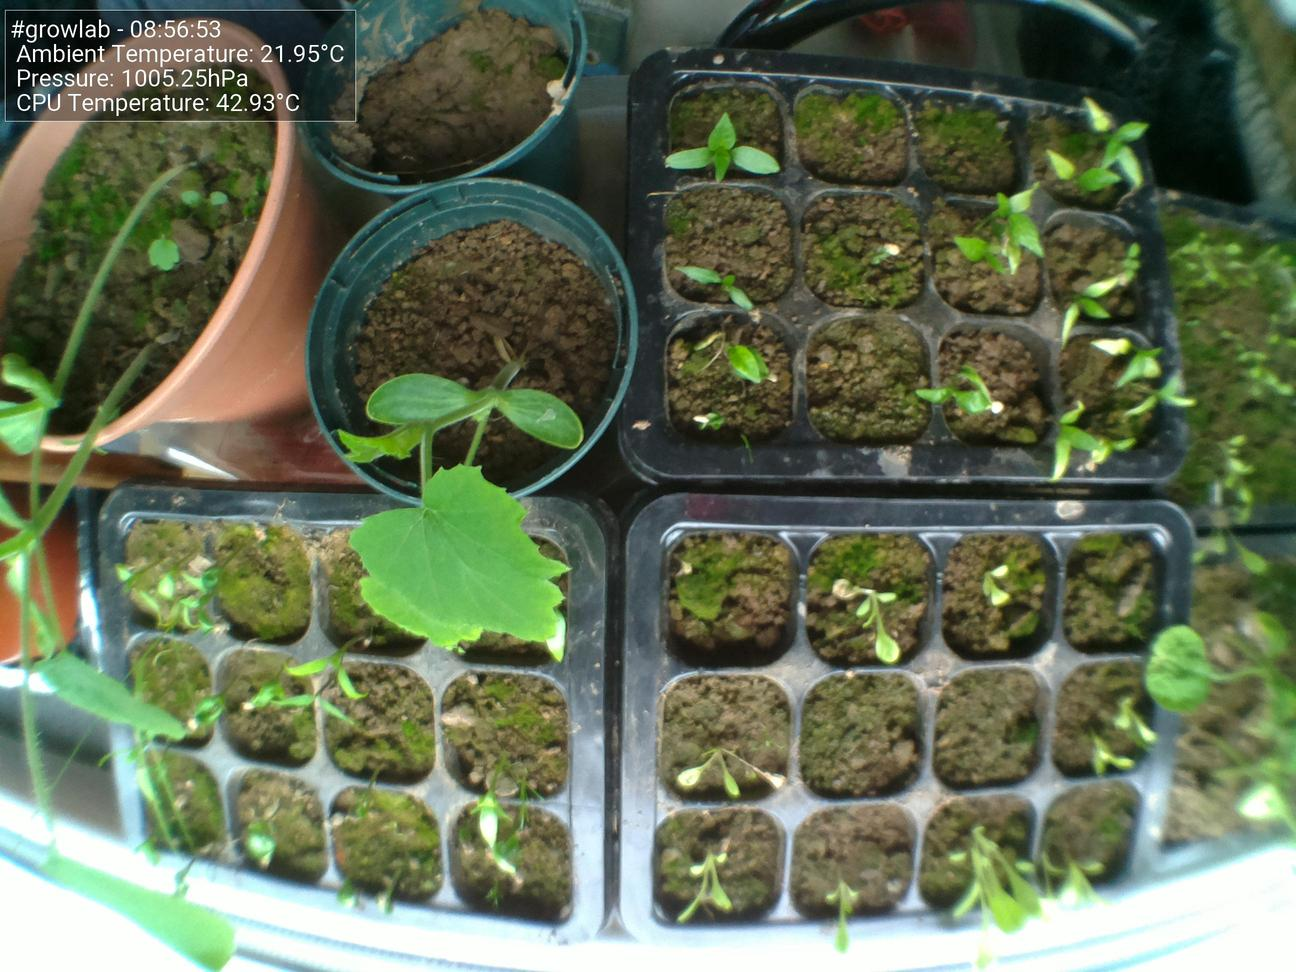
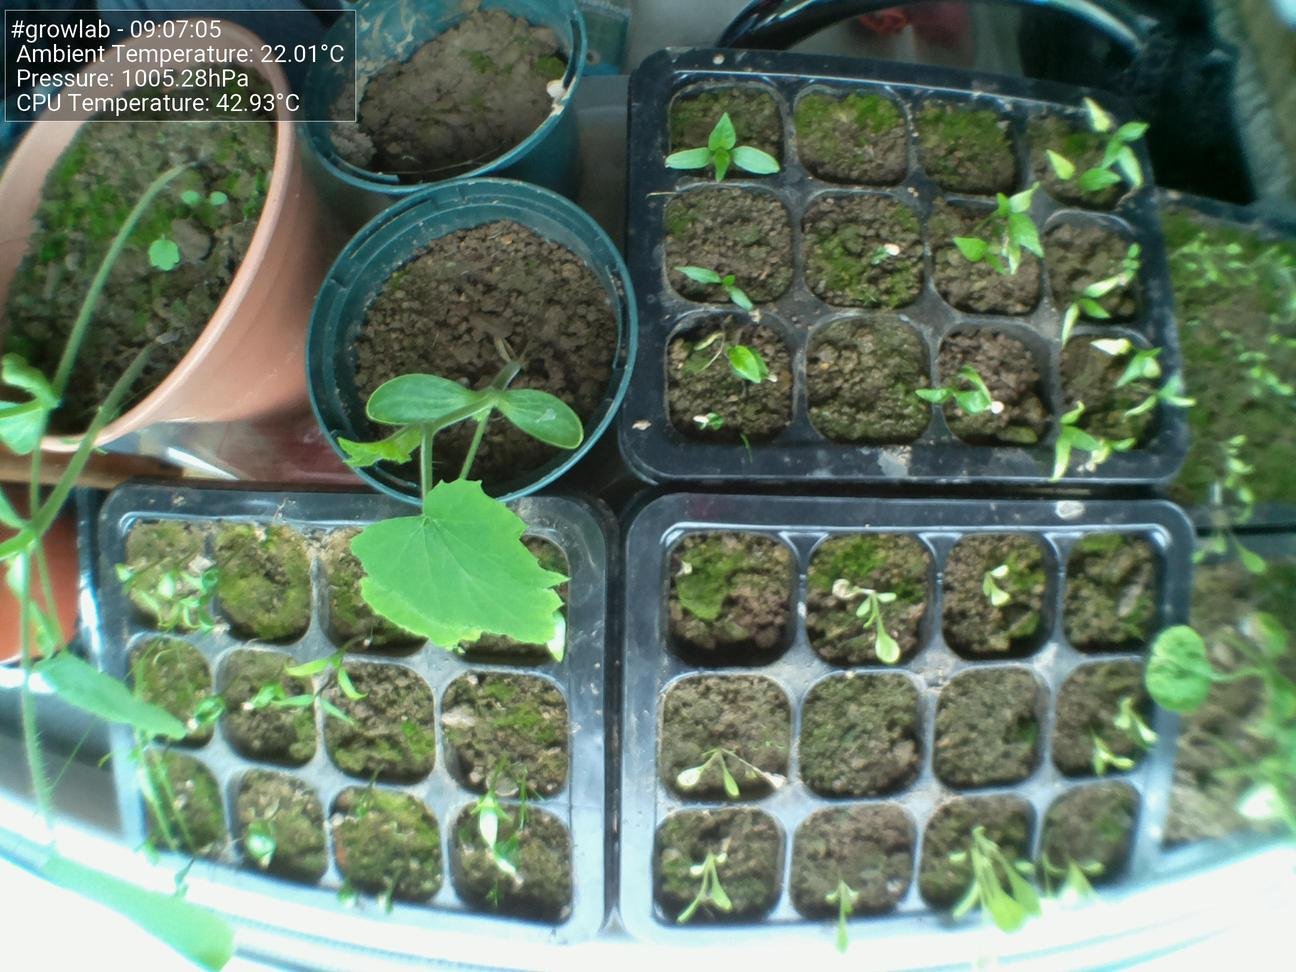
Update images at Tue 17 May 09:07:10 BST 2022

diff --git a/docs/index.html b/docs/index.html
@@ -44,7 +44,7 @@
                         <tbody>
                             <tr>
                                 <td>Time</td>
-                                <td>08:56:53</td>
+                                <td>09:07:05</td>
                             </tr>
                             <tr>
                                 <td>CPU Temp</td>
@@ -52,7 +52,7 @@
                             </tr>
                             <tr>
                                 <td>Ambient Temperature</td>
-                                <td>21.95°C</td>
+                                <td>22.01°C</td>
                             </tr>
                             <tr>
                                 <td>Humidity</td>
@@ -60,7 +60,7 @@
                             </tr>
                             <tr>
                                 <td>Pressure</td>
-                                <td>1005.25hPa</td>
+                                <td>1005.28hPa</td>
                             </tr>
                         </tbody>
                     </table>
@@ -68,7 +68,7 @@
 
                 <h5>Latest image</h5>
                 <div style="width: 85%;">
-                            <img class="figure-img img-fluid rounded" src="./preview.jpg?uid=1652774218.7756517">
+                            <img class="figure-img img-fluid rounded" src="./preview.jpg?uid=1652774830.105133">
                 </div>
             </div>
         </div>
